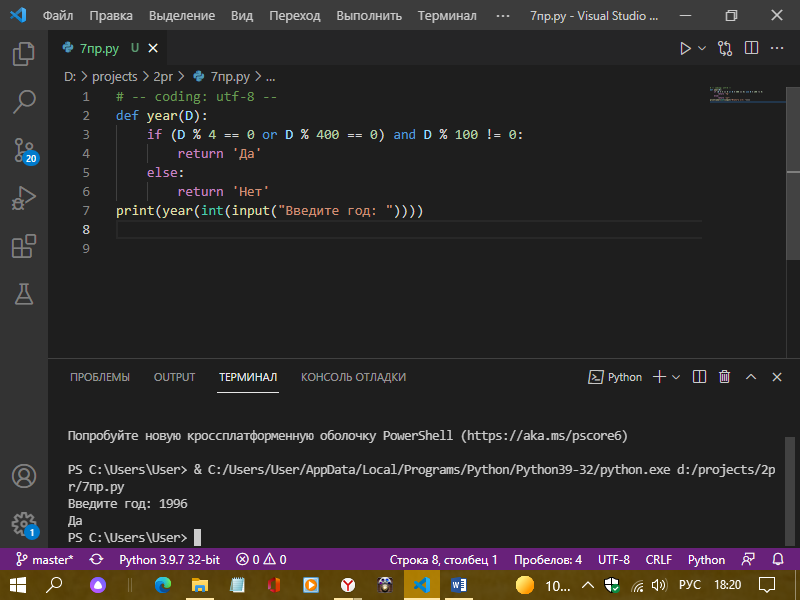
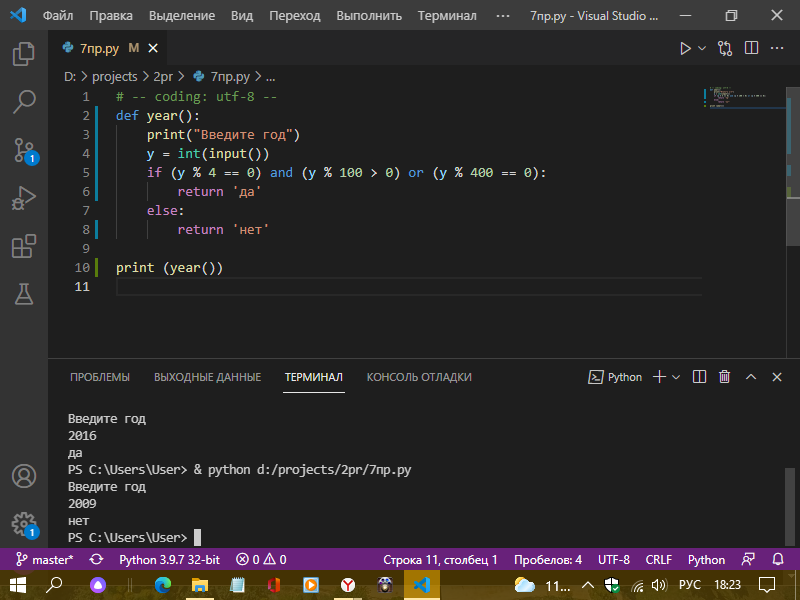
Второе обновление

diff --git a/2pr/7пр.py b/2pr/7пр.py
@@ -1,8 +1,10 @@
 # -- coding: utf-8 --
-def year(D):
-    if (D % 4 == 0 or D % 400 == 0) and D % 100 != 0:
-        return 'Да'
+def year():
+    print("Введите год")
+    y = int(input())
+    if (y % 4 == 0) and (y % 100 > 0) or (y % 400 == 0):
+        return 'да'
     else:
-        return 'Нет'
-print(year(int(input("Введите год: "))))
+        return 'нет'
 
+print (year())
